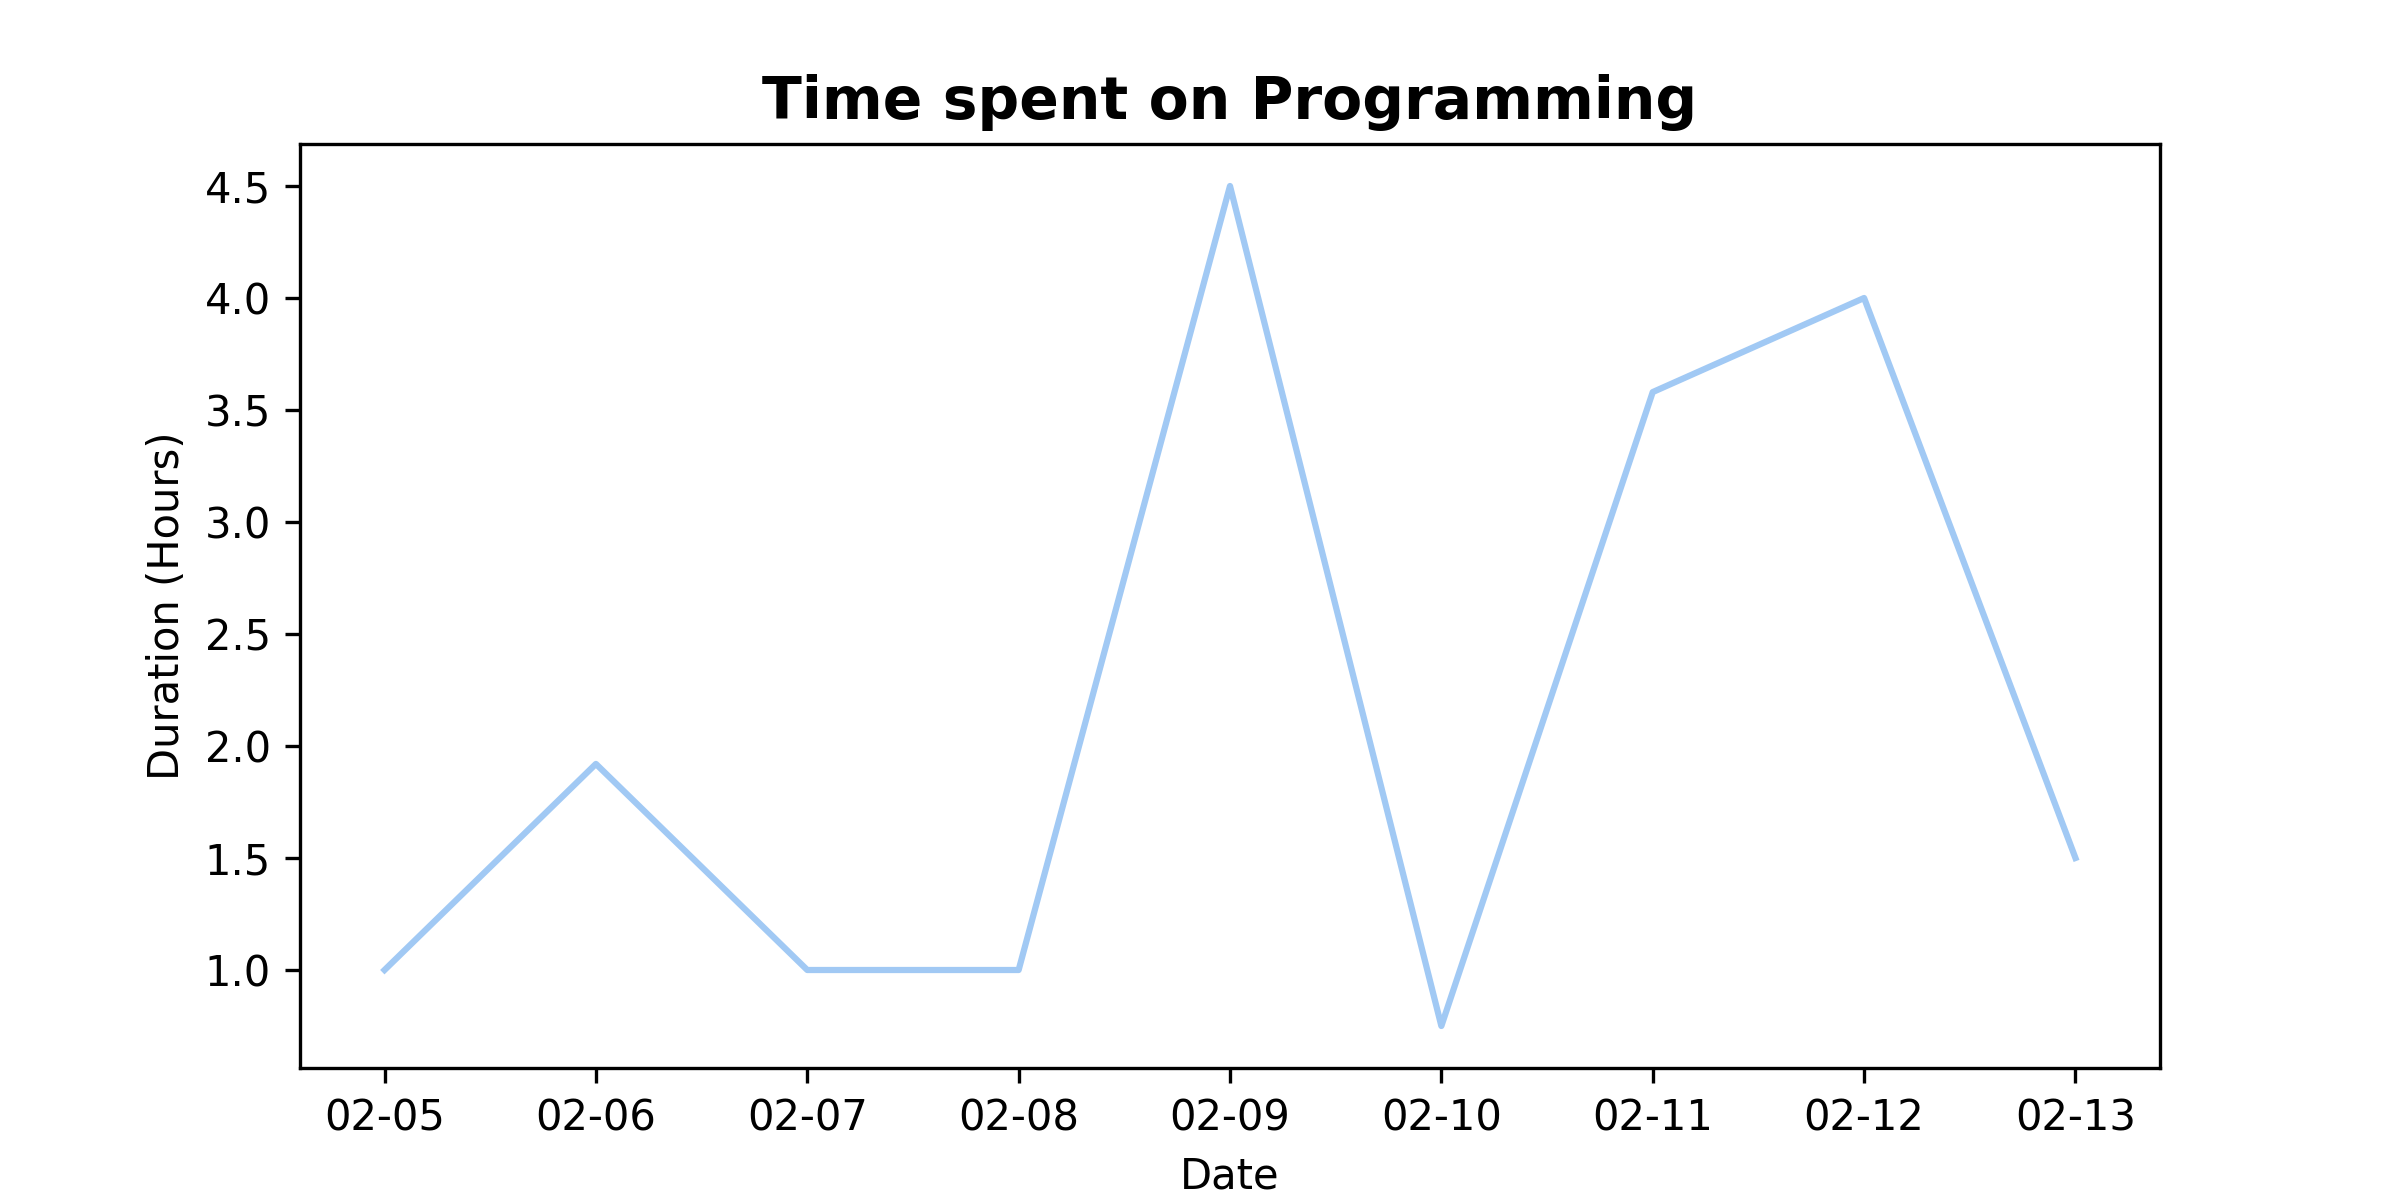
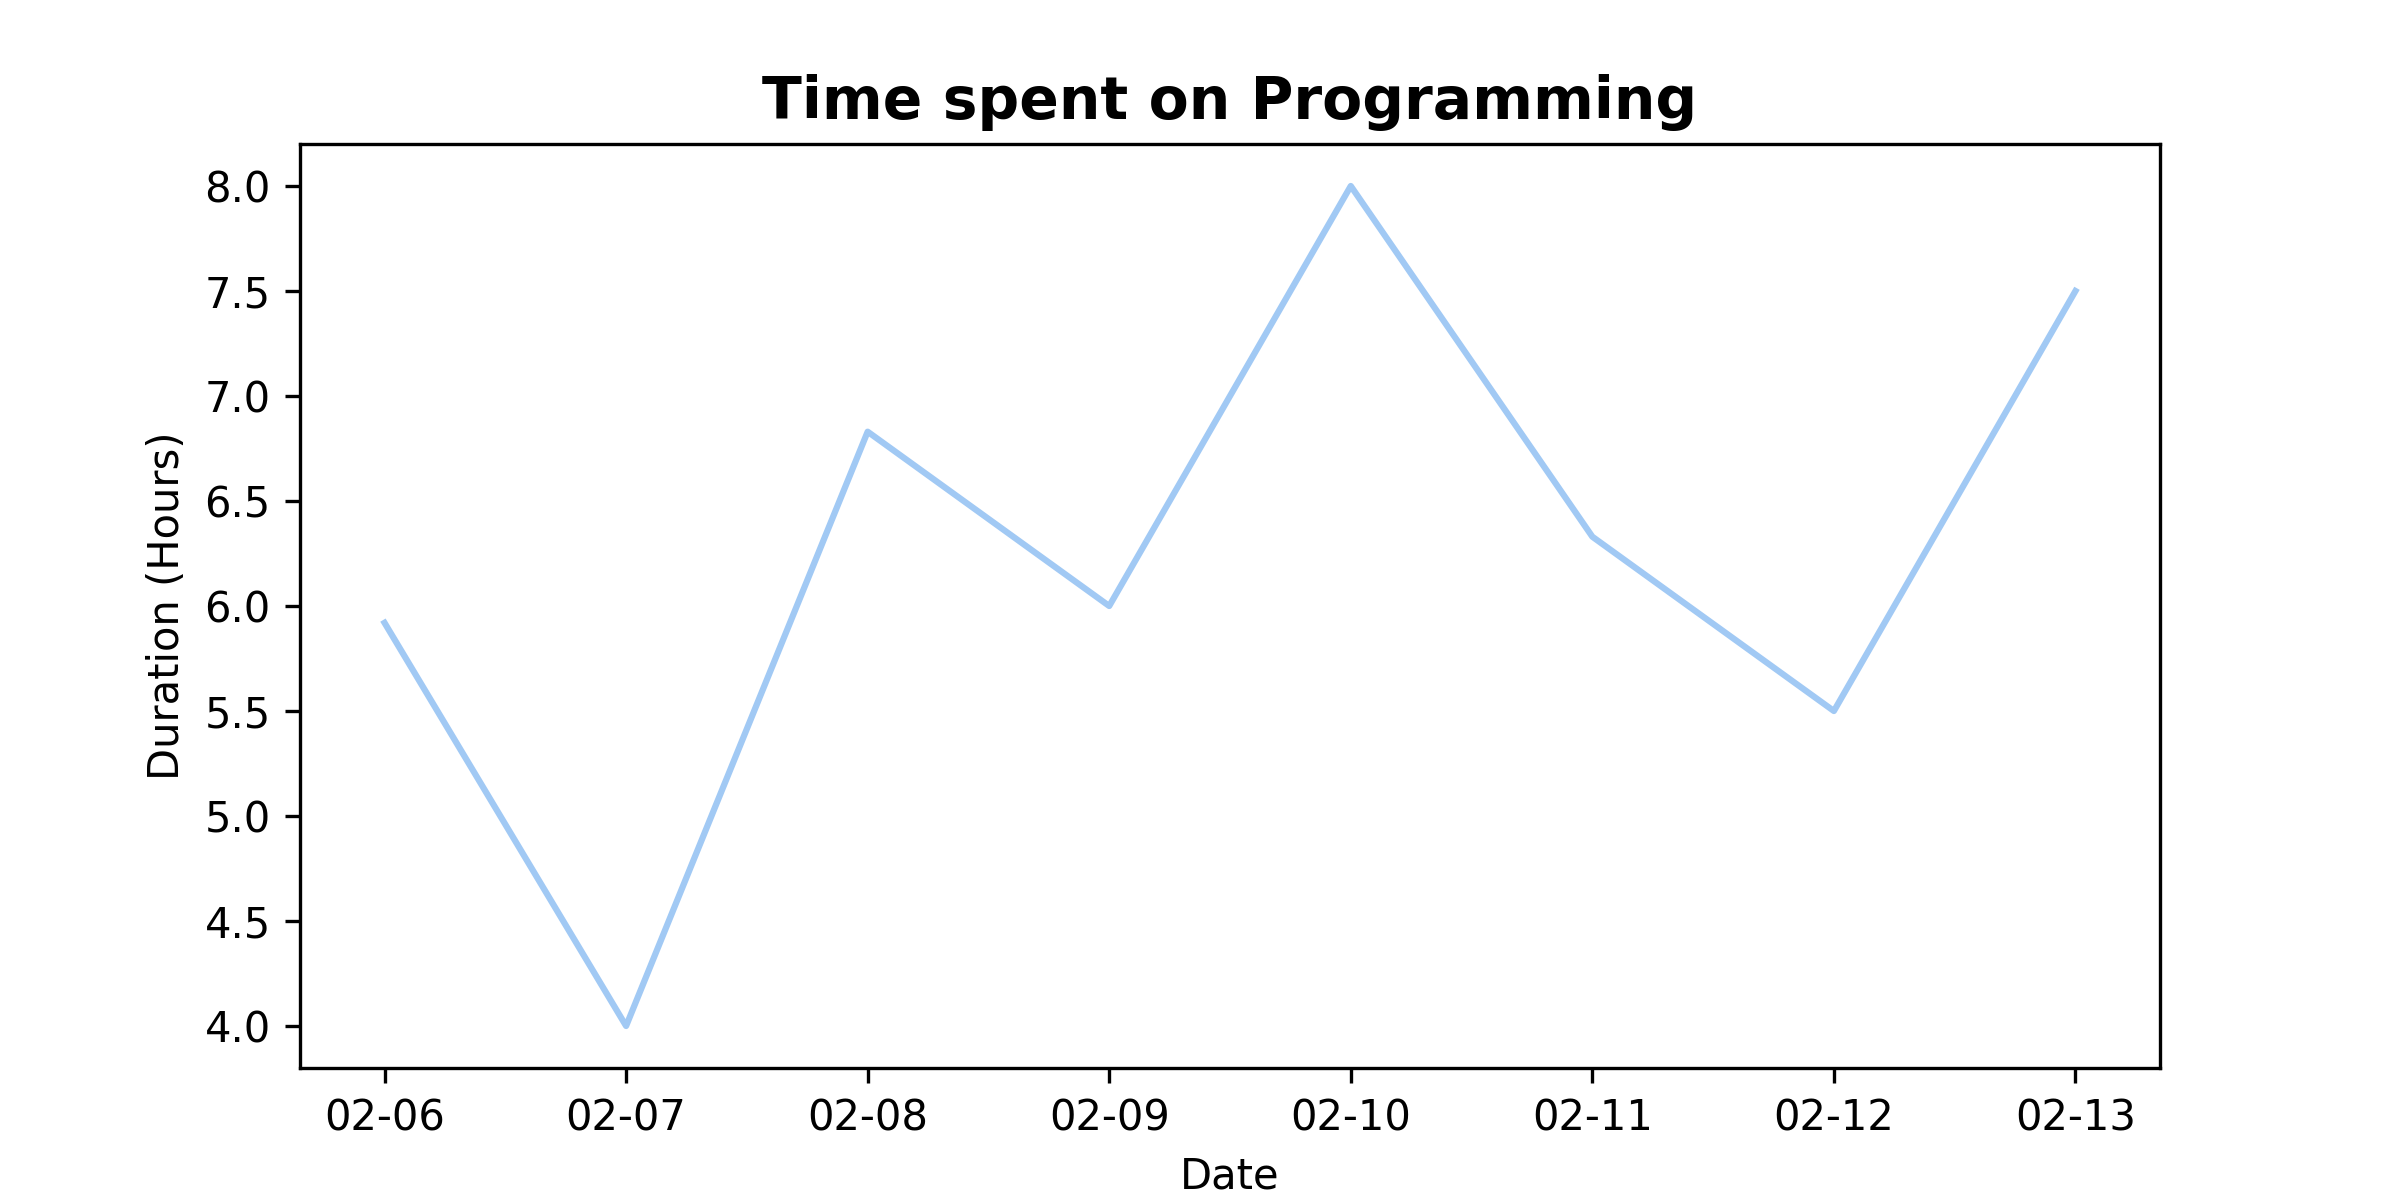
Hot fix #1

diff --git a/src/data_processing/transformer.py b/src/data_processing/transformer.py
@@ -4,49 +4,58 @@ import operator
 
 class DataTransformer:
     @staticmethod
-    def _get_duration(start, end):
+    def _get_duration(start, end) -> float:
+        """
+        A method to calculate the duration of an event
+        """
+
         start_time = datetime.datetime.fromisoformat(start)
         end_time = datetime.datetime.fromisoformat(end)
-
         duration = end_time - start_time
-        duration_in_hours = round(duration.total_seconds() / 3600, 2)
-        return duration_in_hours
-
-    @staticmethod
-    def _update_event_durations(event, event_durations):
-        duration = DataTransformer._get_duration(
-            event["start"]["dateTime"], event["end"]["dateTime"]
-        )
-        if event["summary"] in event_durations:
-            event_durations[event["summary"]] += duration
-        else:
-            event_durations[event["summary"]] = duration
+        return round(duration.total_seconds() / 3600, 2)
 
     @staticmethod
     def many_events_duration(events, max_events=5, order=True) -> dict:
-        event_durations = {}
+        """
+        A method to calculate the total duration of many events
+        """
 
+        event_durations = {}
         for event in events:
             if "dateTime" in event["start"] and "dateTime" in event["end"]:
-                DataTransformer._update_event_durations(event, event_durations)
+                summary = event["summary"]
+                start, end = event["start"]["dateTime"], event["end"]["dateTime"]
+                duration = DataTransformer._get_duration(start, end)
+                if summary in event_durations:
+                    event_durations[summary] += duration
+                else:
+                    event_durations[summary] = duration
 
+        # Sort the events by duration (descending or ascending based on the value of `order`)
         sorted_events = dict(
             sorted(event_durations.items(), key=operator.itemgetter(1), reverse=order)
         )
         top_events = dict(list(sorted_events.items())[:max_events])
-
         return top_events
 
     @staticmethod
-    def one_event_duration(events, event_name):
-        one_event = {}
+    def one_event_duration(events, event_name) -> dict:
+        """
+        A method to calculate the total duration of a single event
+        """
 
+        one_event = {}
         for event in events:
             if event["summary"] == event_name:
-                duration = DataTransformer._get_duration(
-                    event["start"]["dateTime"], event["end"]["dateTime"]
-                )
-                date = datetime.datetime.fromisoformat(event["start"]["dateTime"])
-                one_event[date.date().strftime("%m-%d")] = duration
+                start, end = event["start"]["dateTime"], event["end"]["dateTime"]
+                duration = DataTransformer._get_duration(start, end)
+                date = datetime.datetime.fromisoformat(start)
+                date_str = date.date().strftime("%m-%d")
+                # Add the duration to the existing value for the date (if it exists)
+                # or add a new key-value pair for the date
+                if date_str in one_event:
+                    one_event[date_str] += duration
+                else:
+                    one_event[date_str] = duration
 
         return one_event

diff --git a/src/main.py b/src/main.py
@@ -34,6 +34,7 @@ class AnalyzerFacade:
             events=self.data_collector.collect_data(time_range=time_range),
             event_name=event_name,
         )
+        print(events)
         self.image_saver.save_plot(
             plot=plot.plot(events=events, event_name=event_name),
             filename=f"plot_{plot_type}",
@@ -71,7 +72,9 @@ def main():
     """
     event_visualizer = AnalyzerFacade()
 
-    event_visualizer.analyze_one(plot_type="Line", time_range="week", event_name="Programming")
+    event_visualizer.analyze_one(
+        plot_type="Line", time_range="week", event_name="Programming"
+    )
     event_visualizer.analyze_many(plot_type="Bar", time_range="week", max_events=6)
 
 
